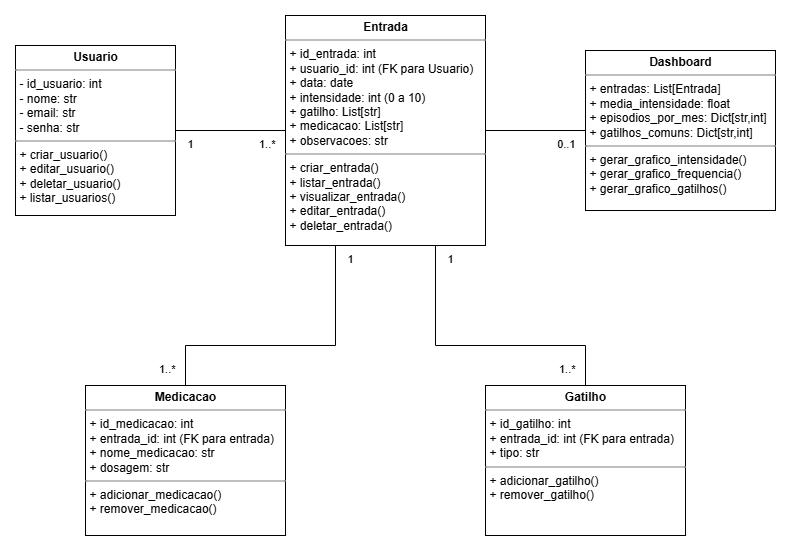
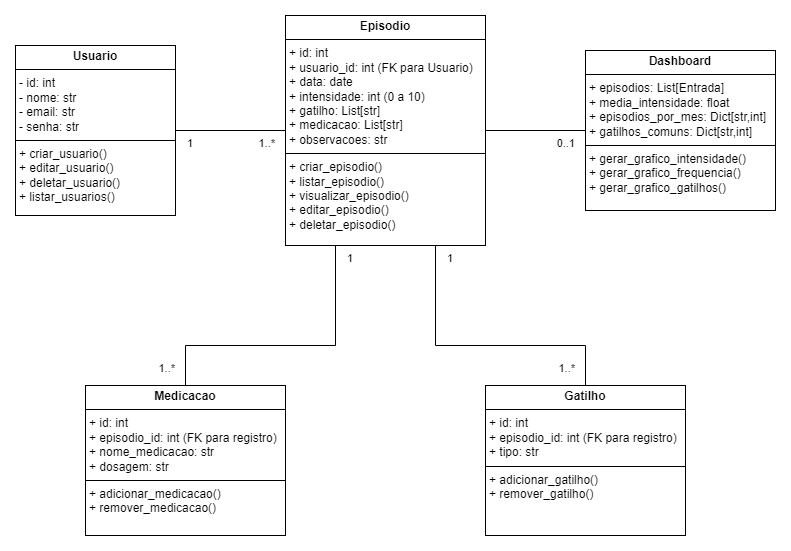
fix: substituicao do nome da classe episodio

diff --git a/docs/backlog.md b/docs/backlog.md
@@ -2,16 +2,17 @@
 
 | #  | História de Usuário                                                               | Critérios de Aceitação                                                                       |
 | -- | --------------------------------------------------------------------------------- | -------------------------------------------------------------------------------------------- |
-| 1  | Como usuário, quero criar um registro de enxaqueca para acompanhar meus episódios | Campos obrigatórios: data e intensidade; campos opcionais: gatilhos, medicações, observações |
-| 2  | Como usuário, quero listar meus registros para ver meu histórico                  | Deve exibir todos os registros do usuário logado                                             |
-| 3  | Como usuário, quero visualizar detalhes de um registro                            | Mostrar todos os campos preenchidos do registro selecionado                                  |
-| 4  | Como usuário, quero editar um registro existente                                  | Alterar qualquer campo com validação aplicada                                                |
-| 5  | Como usuário, quero deletar um registro                                           | Confirmar antes de excluir; só meus registros podem ser deletados                            |
+| 1  | Como usuário, quero criar um episódio de enxaqueca para acompanhar meus episódios | Campos obrigatórios: data e intensidade; campos opcionais: gatilhos, medicações, observações |
+| 2  | Como usuário, quero listar meus episódios para ver meu histórico                  | Deve exibir todos os episódios do usuário logado                                             |
+| 3  | Como usuário, quero visualizar detalhes de um episódio                            | Mostrar todos os campos preenchidos do episódio selecionado                                  |
+| 4  | Como usuário, quero editar um episódio existente                                  | Alterar qualquer campo com validação aplicada                                                |
+| 5  | Como usuário, quero deletar um episódio                                           | Confirmar antes de excluir; só meus episódios podem ser deletados                            |
 | 6  | Como usuário, quero ver um dashboard com estatísticas                             | Gráficos de intensidade, gatilhos e episódios por período                          |
-| 7  | Como usuário, quero filtrar entradas por intensidade | Filtros de intensidade, gatilhos e episódios por intensidade                          |
-| 8  | Como usuário, quero filtrar entradas por data | Filtros de intensidade, gatilhos e episódios por período                          |
+| 7  | Como usuário, quero filtrar episódios por intensidade | Filtros de intensidade, gatilhos e episódios por intensidade                          |
+| 8  | Como usuário, quero filtrar episódios por data | Filtros de intensidade, gatilhos e episódios por período                          |
 | 9  | Como administrador, quero criar usuários                                          | Campos obrigatórios: nome, email, senha; e-mail único                                        |
 | 10 | Como administrador, quero listar usuários                                         | Exibir lista de usuários cadastrados                                                         |
 | 11 | Como administrador, quero editar usuários                                         | Alterar dados pessoais e senha                                                               |
-| 12 | Como administrador, quero deletar usuários                                        | Exclusão física, mantendo integridade das entradas relacionadas                              |
+| 12 | Como administrador, quero deletar usuários                                        | Exclusão física, mantendo integridade das episódios relacionadas                              |
 
+episódio

diff --git a/docs/uml/diagrama-classes.md b/docs/uml/diagrama-classes.md
@@ -17,35 +17,35 @@ Este documento apresenta o **diagrama de classes** do projeto **Diário de Enxaq
 * Representa os usuários do sistema.
 * **Atributos principais:** `id`, `nome`, `email` e `senha`.
 * **Métodos:** CRUD de usuários (`criar_usuario`, `editar_usuario`, `deletar_usuario`, `listar_usuarios`).
-* **Relação:** cada usuário pode ter várias entradas de enxaqueca (1 → N).
+* **Relação:** cada usuário pode ter vários episódios de enxaqueca (1 → N).
 
 ### 2. Entrada
 
-* Entidade central do sistema, representa um registro de enxaqueca.
+* Entidade central do sistema, representa um episódio de enxaqueca.
 * **Atributos:** `id`, `usuario_id` (FK), `data`, `intensidade`, `gatilhos`, `medicacoes` e `observacoes`.
-* **Métodos:** CRUD de entradas (`criar_entrada`, `listar_entradas`, `visualizar_entrada`, `editar_entrada`, `deletar_entrada`).
-* **Relação:** cada entrada pertence a um único usuário e pode ter vários gatilhos e medicações (1 → N).
+* **Métodos:** CRUD de episódios (`criar_episodio`, `listar_episodio`, `visualizar_episodio`, `editar_episodio`, `deletar_episodio`).
+* **Relação:** cada episódio pertence a um único usuário e pode ter vários gatilhos e medicações (1 → N).
 
 ### 3. Gatilho
 
-* Representa os gatilhos associados a uma entrada de enxaqueca.
-* **Atributos:** `id`, `entrada_id` (FK), `tipo`.
+* Representa os gatilhos associados a um episódio de enxaqueca.
+* **Atributos:** `id`, `episodio_id` (FK), `tipo`.
 * **Métodos:** `adicionar_gatilho`, `remover_gatilho`.
-* **Relação:** cada entrada pode ter vários gatilhos (1 → N).
+* **Relação:** cada episódio pode ter vários gatilhos (1 → N).
 
 ### 4. Medicacao
 
-* Representa as medicações associadas a uma entrada.
-* **Atributos:** `id`, `entrada_id` (FK), `nome_medicacao`, `dosagem`.
+* Representa as medicações associadas a um episódio.
+* **Atributos:** `id`, `episodio_id` (FK), `nome_medicacao`, `dosagem`.
 * **Métodos:** `adicionar_medicacao`, `remover_medicacao`.
-* **Relação:** cada entrada pode ter várias medicações (1 → N).
+* **Relação:** cada episódio pode ter várias medicações (1 → N).
 
 ### 5. Dashboard
 
-* Agrega dados de várias entradas para apresentar estatísticas e gráficos.
-* **Atributos:** lista de entradas, média de intensidade, episódios por mês, gatilhos mais comuns.
+* Agrega dados de vários episódios para apresentar estatísticas e gráficos.
+* **Atributos:** lista de episódios, média de intensidade, episódios por mês, gatilhos mais comuns.
 * **Métodos:** `gerar_grafico_intensidade`, `gerar_grafico_frequencia`, `gerar_grafico_gatilhos`.
-* **Relação:** depende de várias entradas (agregação), mas não possui FK direta.
+* **Relação:** depende de vários episódios (agregação), mas não possui FK direta.
 
 ---
 

diff --git a/README.md b/README.md
@@ -24,7 +24,7 @@ O objetivo da documentação é organizar e detalhar todas as fases do projeto, 
 
 O MVP da primeira entrega contempla:
 
-* CRUD completo de registros de enxaqueca
+* CRUD completo de episódios de enxaqueca
 * Backend funcional com FastAPI + SQLAlchemy + MySQL
 * Frontend funcional com React.js + TypeScript
 * Protótipo de alta fidelidade no Figma
@@ -38,10 +38,10 @@ O MVP da primeira entrega contempla:
 | -- | --------------------------- | ----------------------------------------------------------- |
 | 1  | Cadastro de usuário         | E-mail único, senha segura                                  |
 | 2  | Login                       | Autenticação via JWT                                        |
-| 3  | Criar registro de enxaqueca | Campos: data, intensidade, gatilhos, medicação, observações |
-| 4  | Listar registros            | Apenas registros do usuário logado                          |
-| 5  | Atualizar registro          | Permitir edição de todos os campos                          |
-| 6  | Excluir registro            | Exclusão física                                             |
+| 3  | Criar episódio de enxaqueca | Campos: data, intensidade, gatilhos, medicação, observações |
+| 4  | Listar episódios            | Apenas episódios do usuário logado                          |
+| 5  | Atualizar episódio          | Permitir edição de todos os campos                          |
+| 6  | Excluir episódio            | Exclusão física                                             |
 | 7  | Documentação da API         | Swagger automático                                          |
 | 8  | Testes unitários            | Pytest para endpoints CRUD                                  |
 | 9  | Protótipo visual            | Alta fidelidade implementada fielmente                      |
@@ -54,7 +54,7 @@ Cada história de usuário é detalhada em documento individual dentro da pasta 
 Para a primeira entrega, foram criados os seguintes diagramas UML:
 
 * Diagrama de classes – Estrutura do backend e relações entre modelos
-* Diagrama de sequência – Fluxo do CRUD de registros de enxaqueca
+* Diagrama de sequência – Fluxo do CRUD de episódios de enxaqueca
 * Diagrama de casos de uso – Interações do usuário com o sistema
 
 Os arquivos estão disponíveis em `uml/` no formato PDF e PNG.

diff --git a/docs/regras-de-negocio.md b/docs/regras-de-negocio.md
@@ -3,17 +3,17 @@
 
 ### Entradas de Enxaqueca
 
-* Cada `entrada` pertence a um usuário (usuario_id obrigatório).
-* A `data da entrada` é obrigatória e não pode ser futura.
+* Cada `episódio` pertence a um usuário (usuario_id obrigatório).
+* A `data do episódio` é obrigatória e não pode ser futura.
 * A `intensidade` deve ser um número de 0 a 10.
 * Os `gatilhos` podem ser múltiplos, mas não nulos.
 * As `medicacoes` podem ser múltiplas, mas podem estar vazias.
 * As `observacoes` pode ter no máximo 500 caracteres.
-* Usuário só pode criar, editar ou deletar seus próprios registros.
-* Ao criar uma entrada, ela deve ser armazenada no banco MySQL.
-* Ao listar entradas, devem aparecer ordenadas por data decrescente.
-* Ao editar entrada, apenas data, intensidade e descrição podem ser alteradas.
-* Deletar `entrada` remove o registro permanentemente do banco.
+* Usuário só pode criar, editar ou deletar seus próprios episódios.
+* Ao criar um episódio, ela deve ser armazenada no banco MySQL.
+* Ao listar episódios, devem aparecer ordenadas por data decrescente.
+* Ao editar episódio, apenas data, intensidade e descrição podem ser alteradas.
+* Deletar `episódio` remove o episódio permanentemente do banco.
 
 ### Usuários
 
@@ -24,9 +24,9 @@
 
 ### Dashboard / Estatísticas
 
-* Mostrar apenas registros do usuário logado.
+* Mostrar apenas episódios do usuário logado.
 * Os gráficos calculam média de intensidade e frequência por período.
-* Filtros podem ser aplicados somente aos registros visíveis.
+* Filtros podem ser aplicados somente aos episódios visíveis.
 
 ### Validações Gerais
 

diff --git a/CONTRIBUTING.md b/CONTRIBUTING.md
@@ -19,7 +19,7 @@ git pull
 git checkout -b feature/nova-documentacao
 ```
 
-Use nomes descritivos, como `feature/uml-registro` ou `docs/backlog-mvp`.
+Use nomes descritivos, como `feature/uml-episodio` ou `docs/backlog-mvp`.
 
 ####  Fazer commits
 
@@ -37,7 +37,7 @@ Tipos comuns:
 
 Exemplo:
 ```bash
-git commit -m "docs(uml): adiciona diagrama de classes do CRUD de registros"
+git commit -m "docs(uml): adiciona diagrama de classes do CRUD de episodios"
 ```
 ####  Abrir Pull Request
 

diff --git a/docs/mvp.md b/docs/mvp.md
@@ -8,7 +8,7 @@
 
 1. **CRUD de Entradas de Enxaqueca**
 
-   * Criar, listar, visualizar, editar e deletar registros
+   * Criar, listar, visualizar, editar e deletar episódios de enxaqueca
    * Campos:
 
      * `data` (data do episódio)
